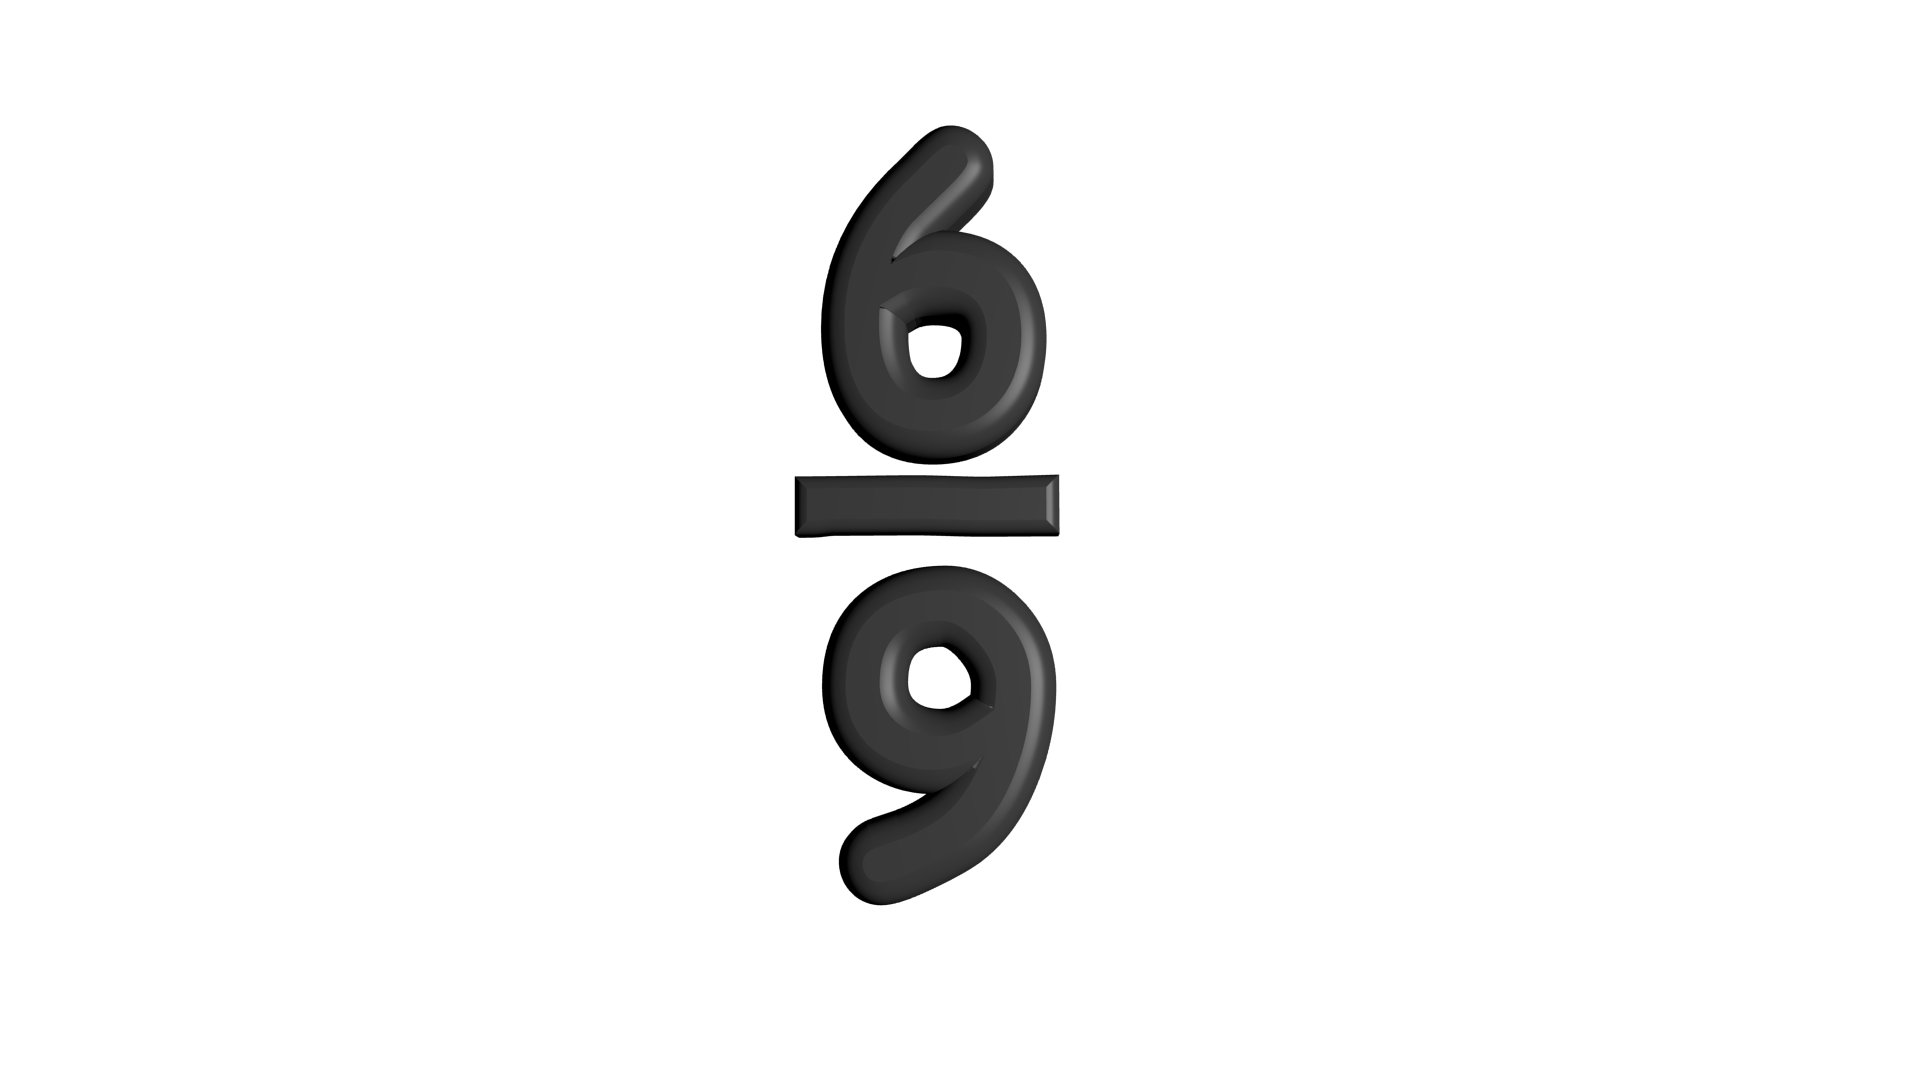
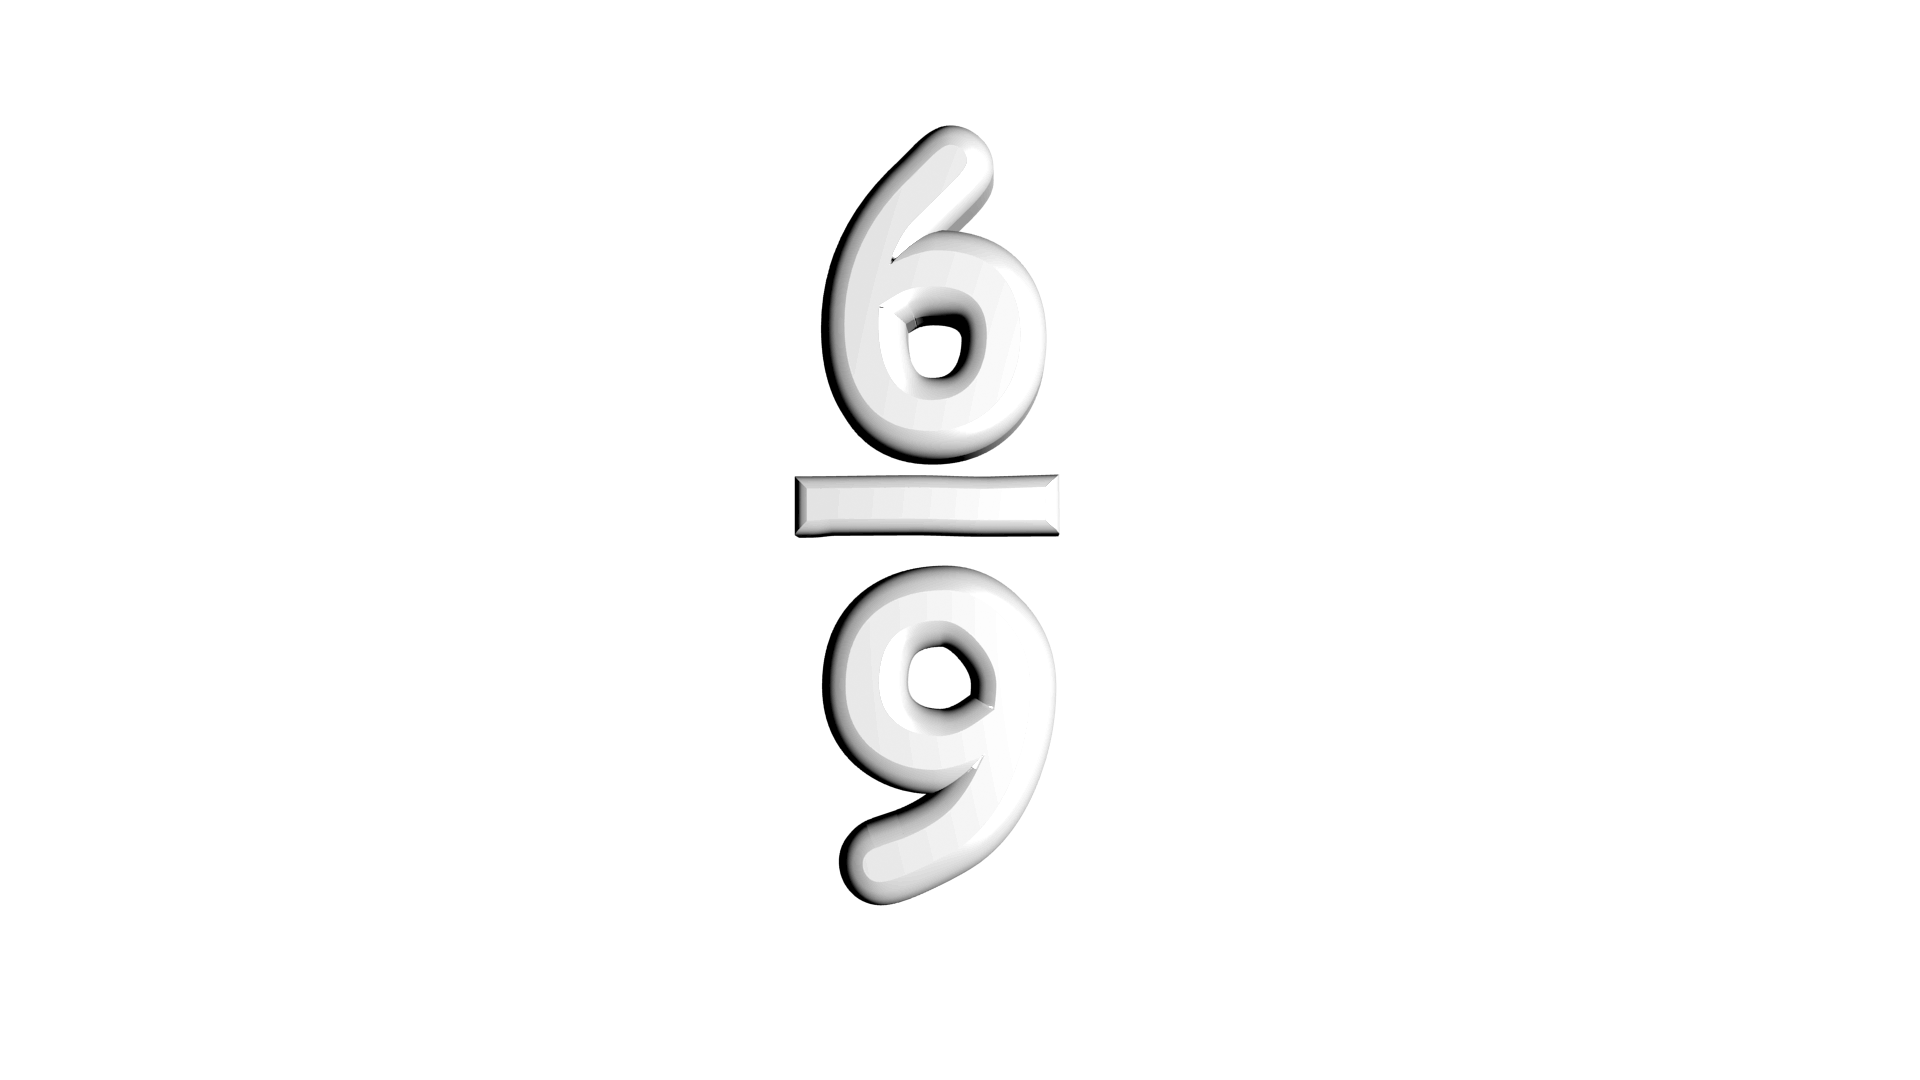
Update
Fixed Fraction colors
Fixed Animations

Changed region(s): [[0.4062, 0.1222, 0.5625, 0.8556]]

diff --git a/MinionRunner/Assets/MinionRunner/Scripts/FractionSelect.cs b/MinionRunner/Assets/MinionRunner/Scripts/FractionSelect.cs
@@ -35,7 +35,7 @@ public class FractionSelect : MonoBehaviour {
      
     private int AnswerCheck;
     private int sliderSelect;
-    
+
  /*   void OnTriggerStay(Collider other) // Activate Particle System
     {
         if (other.tag == "Fraction2" && Input.GetButtonDown("Fire1")) 
@@ -65,10 +65,14 @@ public class FractionSelect : MonoBehaviour {
 */
     void OnTriggerEnter(Collider other) // show the fractions 
     {
+        FractionSelect.resetAnimation = false;
+        //      GameObject.Find("Slider 1").GetComponent<Animator>().Play("Idle", -1, 0f);
+
+
         if (other.tag == "Fraction2")
         {
             Debug.Log("HitFraction2 show me");
-            SlowMo();
+         //   SlowMo();
             int randomFraction = Random.Range(0, 5);
 
             if (randomFraction == 0)
@@ -112,7 +116,7 @@ public class FractionSelect : MonoBehaviour {
         else if (other.tag == "Fraction3")
         {
             Debug.Log("Hit Fraction 3 show me");
-            SlowMo();
+    //        SlowMo();
             int randomFraction = Random.Range(0, 10);
 
             if (randomFraction == 0)
@@ -193,7 +197,7 @@ public class FractionSelect : MonoBehaviour {
         if (other.tag == "Fraction4")
         {
              Debug.Log("Hit Fraction 4 show me");
-             SlowMo();
+       ///      SlowMo();
              int randomFraction = Random.Range(0, 9);
            
                 if (randomFraction == 0)
@@ -309,7 +313,6 @@ public class FractionSelect : MonoBehaviour {
             RightWrongAnswer.GetComponent<Image>().overrideSprite = right[Random.Range(0, 5)];
             Panel.playAnimation = true;
             //Invoke("Reset2", resetTime);
-            Panel.playAnimation = true;
         }
         else if (!checkAnswer)
         {
@@ -345,8 +348,8 @@ public class FractionSelect : MonoBehaviour {
             Time.fixedDeltaTime = 0.02F * Time.timeScale;
             Debug.Log("2 = 2 ... + 5");
             RightWrongAnswer.GetComponent<Image>().overrideSprite = right[Random.Range(0, 5)];
-         //   Invoke("Reset2", resetTime);
-     
+            //   Invoke("Reset2", resetTime);
+            Panel.playAnimation = true;
             AnswerWasRightOrWrong = true;
         }
         else if (!checkAnswer)
@@ -501,24 +504,25 @@ public class FractionSelect : MonoBehaviour {
         Debug.Log(sliderValue[sliderSelect].value);
 
         checkInput = sliderValue[sliderSelect].value;
-     
-        AnswerCheckOneFourth();
-     
+    
+        AnswerCheckOneFourth();  
         AnswerCheckOneHalf();
-       
         AnswerCheckOneThird();
-
-        AnswerCheckThreeTwoThird();
-   
-        AnswerCheckThreeFourth();
-       
+        AnswerCheckThreeTwoThird();  
+        AnswerCheckThreeFourth();      
         Invoke("Reset2", resetTime);
 
-
+       /* if (AnswerWasRightOrWrong == true)
+        {
+          GameObject.Find("Check Answer Button").SetActive(false);
+        }
+        */
         //   
 
     }
     public float check2ndInput;
+
+    public static bool resetAnimation = false;
     public void Submit2ndSlider()
     {
         Debug.Log(slider2ndCheck[sliderSelect].value);
@@ -529,13 +533,16 @@ public class FractionSelect : MonoBehaviour {
 
         if (Mathf.Abs(check2ndInput - checkInput) < 0.08)
         {
+            //GameObject.Find("Check Answer Button").SetActive(true);
+            GameObject.Find("Slider (2)").SetActive(false);
+            resetAnimation = true;
             inputPanels[sliderSelect].gameObject.SetActive(false);
             RightWrongAnswer.GetComponent<Image>().overrideSprite = right[Random.Range(0, 5)];
             Invoke("Reset2", resetTime);
             Reset();
             Scoring.score = Scoring.score + 5;
             slider2ndCheck[sliderSelect].value = 0;
-            sliderValue[sliderSelect].value = 0;
+          
             
 
         }

diff --git a/MinionRunner/Assets/MinionRunner/Animations/Panel.cs b/MinionRunner/Assets/MinionRunner/Animations/Panel.cs
@@ -20,6 +20,11 @@ public class Panel : MonoBehaviour
             PlayAnimation();
            // Panel.playAnimation = false;
         }
+        if (FractionSelect.resetAnimation == true)
+        {
+            GetComponent<Animator>().SetBool("ResetPanel", true);
+            
+        }
     }
 
 }
